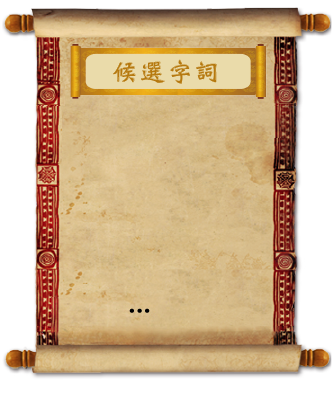
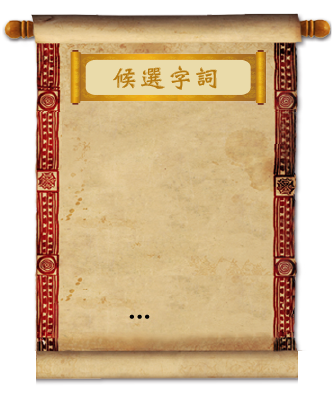
增加垂直捲軸動畫展開的功能

diff --git a/kangxi.js b/kangxi.js
@@ -363,7 +363,8 @@ $( document ).ready(function() {
 			draw_page6();
 			show_msg(0);
 			$("#page5").hide();
-			show_animate($("#page6"));
+			$("#page12").hide();
+			stick_h_animate($("#page6"));
 			active_page = 6;
 			return false;
 	});
@@ -416,8 +417,8 @@ $( document ).ready(function() {
 	  		$(".mainpage").hide();
 			show_msg(0);
 			$("#page7").stop(false,true);	// 避免此按鈕重覆一直按會造成錯誤
-			$("#img_stick").stop(false,true);
-			show_animate($("#page7"));
+			$("#img_stick_h").stop(false,true);
+			stick_h_animate($("#page7"));
 	  		active_page = 7;
 	  		return false;
 	});
@@ -616,8 +617,7 @@ function show_page5()
 	// 畫出 page 5 候選字介面
 	draw_page5();
 	show_msg(5);
-	
-	$("#page5").show();
+	stick_v_animate($("#page5"));
 	active_page = 5;
 	return false;
 }
@@ -740,8 +740,9 @@ function draw_page7()
 	// 清除陣列
 	name23 = [];		// 所以候選名字的陣列
 	sele_name = [];		// 入闈陣列, 和 name23 陣列同步, 裡面是 0 或 1 , 1 表示有選上
-	
+
 	// 設定姓名旁圈圈圖按下去之後的程式
+	$("#page7 .select").unbind( "click" );
 	$("#page7 .select").click(
 		function() {
 			var grand_parent = $(this).parent().parent();
@@ -765,7 +766,7 @@ function draw_page7()
 	});
 	
 	// 設定姓名按下去之後的程式
-
+	$("#page7 .name23").unbind( "click" );
 	$("#page7 .name23").click(
 		function() {
 			myname23 = $(this).text();		// 取出名字
@@ -812,7 +813,7 @@ function show_page8(myname23 , mystrokes)
 	$("#say80").html(say80[mystrokes]);
 	
 	$(".mainpage").hide();
-	$("#page8").show();
+	stick_v_animate($("#page8"));
 	active_page = 8;
 
 	return false;		
@@ -857,14 +858,14 @@ function show_msg(msg)
 	}
 }
 
-// 動畫展開捲軸
-function show_animate(obj)
+// 橫向捲軸水平動畫展開
+function stick_h_animate(obj)
 {
-	w = obj.width();
+	var w = obj.width();
 	obj.width(60+53-16);	 // 60: 左邊寬度, 53: 右軸寬度 , 16: 右邊透明的部份
-	$("#img_stick").css("left", "210px");
+	$("#img_stick_h").css("left", "210px");  // 150 (原始 left) + 60
 	obj.show();
-	$("#page10").show();
+	$("#page11").show();
 	
 	obj.animate({
 			width: w-16
@@ -872,8 +873,29 @@ function show_animate(obj)
 			obj.width(w);
 		}
 	);
-	$( "#img_stick" ).animate({
-			left: 210 + 640 - 53 // = 
+	$( "#img_stick_h" ).animate({
+			left: 210 + 640 - 53	// 總長 700 - 60 = 640
+		}, 1000
+	);
+}
+
+// 直向捲軸垂直動畫展開
+function stick_v_animate(obj)
+{
+	var h = obj.height();
+	obj.height(42+45-17);	 // 42: 上方高度, 45: 下軸高度 , 17: 下方透明的部份
+	$("#img_stick_v").css("top", "246px");  // 204 (原始 top) + 42
+	obj.show();
+	$("#page12").show();
+	
+	obj.animate({
+			height: h-17
+		}, 1000 , function() {
+			obj.height(h);
+		}
+	);
+	$( "#img_stick_v" ).animate({
+			top: 246 + 354 - 45	// 總高 396 - 42 = 354
 		}, 1000
 	);
 }

diff --git a/kangxi.css b/kangxi.css
@@ -77,21 +77,26 @@ div#menu_6 { left: 795px; top: 80px; width: 77px; height: 24px;}
 }
 
 /* 第五頁 列出基本候選字 */
-#img_name_prelist {
+#page5, #page8 {
 	position: absolute;
 	left: 125px;
-	top: 210px;
+	top: 204px;
+	width: 333px;
+	height: 396px;
 }
+#page5 { background-image: url(image/name_prelist.png); }
+
 #out_name_prelist {
-	left: 205px;
-	top: 320px;
+	position: relative;
+	left: 80px;
+	top: 116px;
 	width: 180px;
 	height: 195px;
 	text-align: center;
 }
 #page5_next {
-	left: 250px;
-	top: 512px;
+	left: 125px;
+	top: 308px;
 	width: 30px;
 	height: 20px;
 	cursor: pointer;
@@ -100,6 +105,13 @@ div#menu_6 { left: 795px; top: 80px; width: 77px; height: 24px;}
 	display: block;
 	text-align: center;
 	margin: 5px;
+}
+#img_stick_v {
+	position: absolute;
+	left: 125px;
+	top: 246px;
+	width: 333px;
+	height: 45px;
 }
 
 /* 第六頁, 第七頁 */
@@ -128,11 +140,11 @@ div#menu_6 { left: 795px; top: 80px; width: 77px; height: 24px;}
 #page7 .name23 {
 	cursor: pointer;
 }
-#img_stick {
+#img_stick_h {
 	position: absolute;
 	left: 210px;
 	top: 186px;
-	width: 54px;
+	width: 53px;
 	height: 430px;
 }
 .name1_group , .name1_head {
@@ -148,16 +160,11 @@ div#menu_6 { left: 795px; top: 80px; width: 77px; height: 24px;}
 	padding-left: 10px;
 }
 
-
 /* 第八頁 聖旨 */
-#img_analysis {
-	position: absolute;
-	left: 125px;
-	top: 205px;
-}
+#page8 { background-image: url(image/analysis.png); }
 #page8_name {
-	left: 190px;
-	top: 262px;
+	left: 65px;
+	top: 57px;
 	width: 80px;
 	height: 45px;
 	color : black;
@@ -166,8 +173,8 @@ div#menu_6 { left: 795px; top: 80px; width: 77px; height: 24px;}
 	font-weight:bold;
 }
 #page8_good {
-	left: 275px;
-	top: 272px;
+	left: 150px;
+	top: 67px;
 	width: 100px;
 	height: 25px;
 	color : white;
@@ -175,8 +182,8 @@ div#menu_6 { left: 795px; top: 80px; width: 77px; height: 24px;}
 	font-size: 24px;
 }
 #out80 {
-	left: 190px;
-	top: 320px;
+	left: 65px;
+	top: 115px;
 	width: 200px;
 	height: 83px;
 	color : black;
@@ -185,8 +192,8 @@ div#menu_6 { left: 795px; top: 80px; width: 77px; height: 24px;}
 	font-weight:bold;
 }
 #say80 {
-	left: 190px;
-	top: 470px;
+	left: 65px;
+	top: 265px;
 	width: 200px;
 	height: 85px;
 	color : black;

diff --git a/index.html b/index.html
@@ -46,7 +46,6 @@
     <!-- page 4 ----------------------------------------------------- -->
     <!-- page 5 ----------------------------------------------------- -->
 	<div id="page5" class="mainpage">
-		<img id="img_name_prelist" src="image/name_prelist.png"/>
 		<div id="out_name_prelist"></div>
 	    <div id="page5_next"></div>
     </div>
@@ -60,7 +59,6 @@
     </div>
     <!-- page 8 聖旨 ----------------------------------------------------- -->
 	<div id="page8" class="mainpage">
-		<img id="img_analysis" src="image/analysis.png"/>
 		<div id="page8_name"></div>
 		<div id="page8_good"></div>
 		<div id="out80"></div>
@@ -86,12 +84,15 @@
 			<div class="tab-pane" data-aura-widget="pysearchresult-widget" id="pron" style="display: none;"></div>
 		</div>
     </div>
+    
+    <!-- 二根捲動用的捲軸 ----------------------------------------------------- -->
+	<div id="page11" class="mainpage"><img id="img_stick_h" src="image/stick_h.png"/></div>
+	<div id="page12" class="mainpage"><img id="img_stick_v" src="image/stick_v.png"/></div>
+	
     <!-- page message ----------------------------------------------------- -->
 	<div id="message">
 		<img id="img_message" src="image/msg_what.png"></img>
     </div>
-    
-	<div id="page10" class="mainpage"><img id="img_stick" src="image/stick.png"/></div>
 	<div class="mainview">
 	     <div data-aura-widget="glyphemesearch-widget"></div>
 	     <div data-aura-widget="kangxi-widget"></div>
